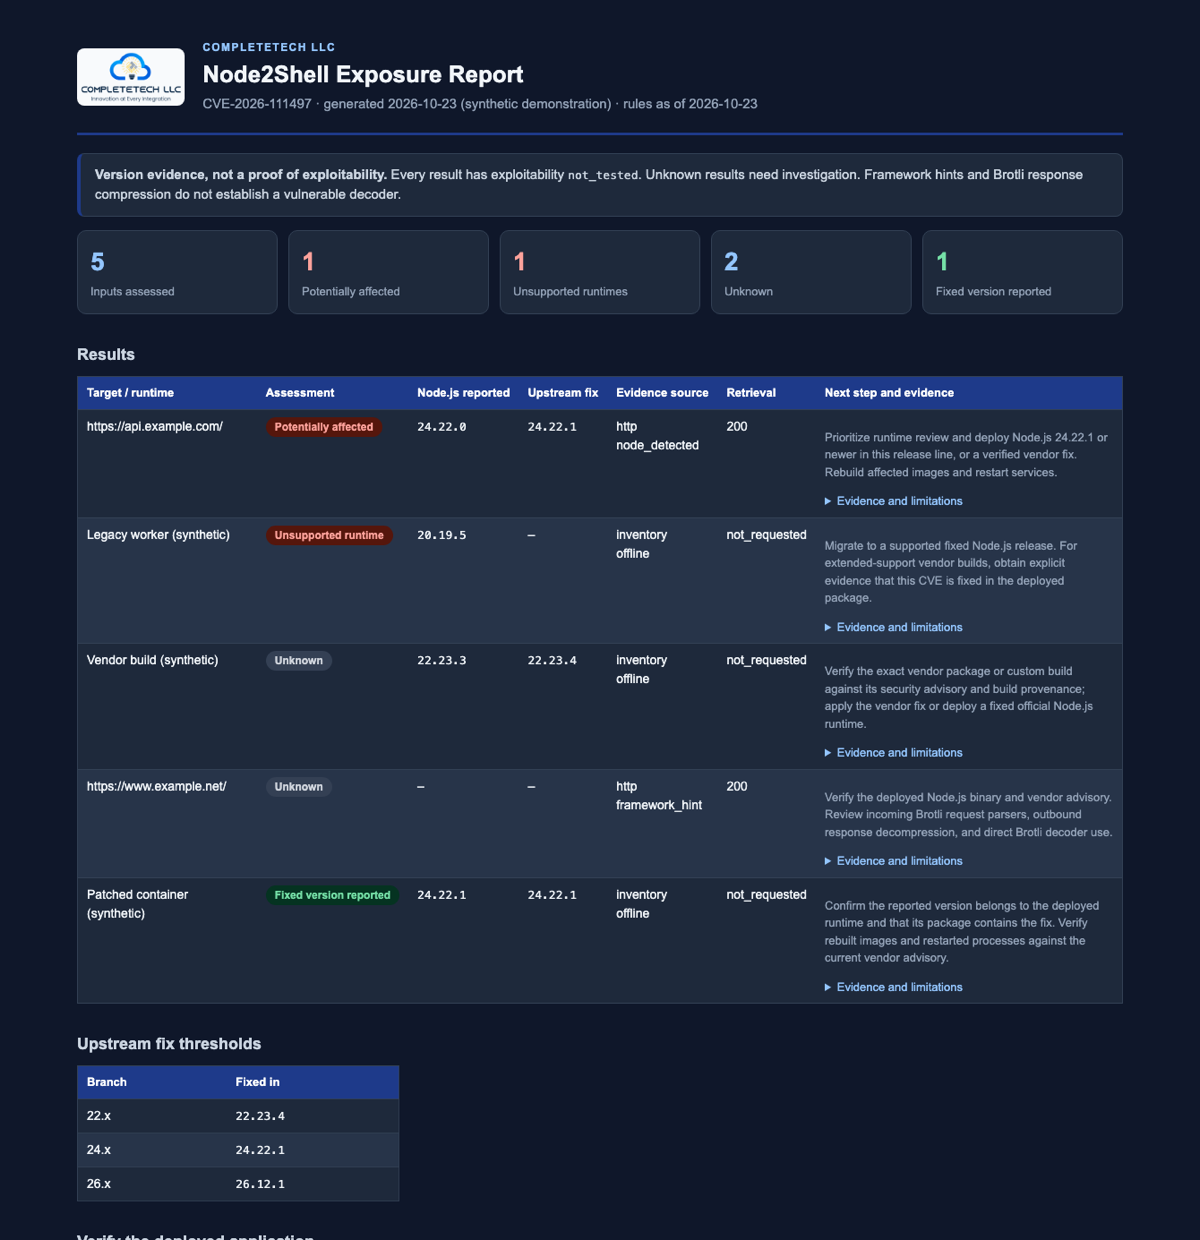
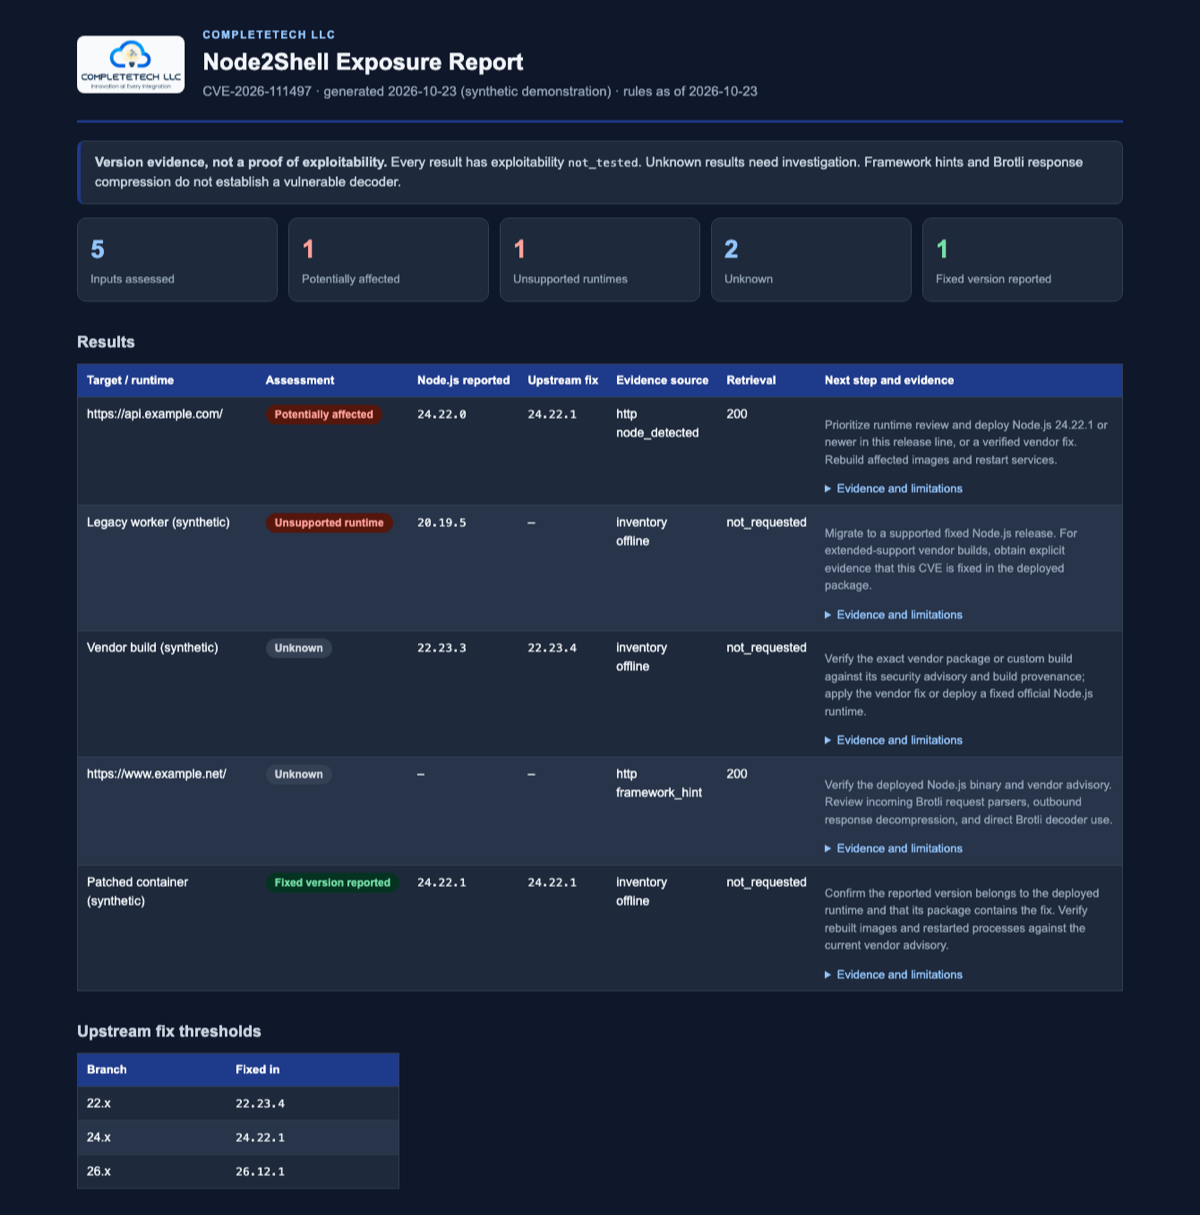
Align README license wording with LICENSING.md; tighten details
Address review: AGPL option is not limited to non-commercial use, name the
--fail-on-finding triggers, note robots gating and downgrade stop, widen the
unknown row, and crop screenshots below the fix table.

diff --git a/README.md b/README.md
@@ -30,11 +30,11 @@ python node2shell_check.py --inventory runtime.json --format html --output repor
 python node2shell_check.py --input websites.txt --format html --output websites-report.html
 ```
 
-Python 3.10+ on Windows, macOS, or Linux. Nothing to install. Node.js is needed only to run the optional collector.
+Python 3.10+ on Windows, macOS, or Linux. Nothing to install; use `python3` where `python` is not Python 3. Node.js is needed only to run the optional collector.
 
 ## The report
 
-`--format html` produces a single offline, script-free file with your logo, summary tiles, every result with its evidence and next step, and the upstream fix table. It follows the reader's light or dark theme and prints cleanly.
+`--format html` produces a single offline, script-free file with a logo, summary tiles, every result with its evidence and next step, and the upstream fix table. It follows the reader's light or dark theme and prints cleanly.
 
 <p align="center">
   <picture>
@@ -45,7 +45,7 @@ Python 3.10+ on Windows, macOS, or Linux. Nothing to install. Node.js is needed 
 
 <p align="center"><sub>Synthetic example built from reserved <code>example.*</code> domains and invented runtimes. <a href="docs/example-report.html">View the HTML</a>.</sub></p>
 
-Use `--logo path/to/logo.png` and `--brand "Your Company"` to brand it for your own organization. CSV and JSON remain available for spreadsheets and pipelines; `--fail-on-finding` exits 1 when a pipeline should stop.
+Use `--logo path/to/logo.png` and `--brand "Your Company"` to brand it for your own organization. CSV and JSON remain available for spreadsheets and pipelines. `--fail-on-finding` exits 1 when any result is `potentially_affected` or `unsupported_runtime`; operational errors exit 2.
 
 ## What the results mean
 
@@ -54,7 +54,7 @@ Use `--logo path/to/logo.png` and `--brand "Your Company"` to brand it for your 
 | 🔴 `potentially_affected` | A plain Node.js version below its branch's fix is reported. Verify the deployed build and prioritize remediation. |
 | 🟠 `unsupported_runtime` | The version is on an older, unsupported upstream line. Verify vendor support and move to a supported, patched runtime. |
 | 🟢 `fixed_version_reported` | The reported version meets the fix. Not independent verification of installed patches. |
-| ⚪ `unknown` | Version missing, conflicting, qualified, custom-built, pre-release, or outside this rule snapshot. |
+| ⚪ `unknown` | Version missing, malformed, conflicting, vendor-qualified, custom-built, pre-release, possibly backported, or outside this rule snapshot. |
 
 | Node.js branch | 22.x | 24.x | 26.x |
 | --- | --- | --- | --- |
@@ -69,7 +69,7 @@ Thresholds come from the [Node.js October 2026 security releases](https://nodejs
 
 - **Known version:** `--node-version` (repeatable) compares a version you obtained elsewhere. No network calls.
 - **Runtime inventory:** `collect-runtime.cjs` records version and build metadata from the Node.js binary that runs the service. It never loads application code, reads environment variables, decompresses data, or opens a connection, and it cannot attest vendor patch provenance.
-- **Website metadata:** reads `robots.txt`, then makes ordinary `GET` requests with verified TLS, an honest User-Agent, bounded responses, and pacing. Redirects stay on the same host or its `www` counterpart. It fetches nothing else and sends no compressed bodies, credentials, or crafted requests.
+- **Website metadata:** reads `robots.txt`, then makes an ordinary `GET` request to the page if allowed, with verified TLS, an honest User-Agent, bounded responses, and pacing. Redirects stay on the same host or its `www` counterpart, and HTTPS downgrades stop. It fetches nothing else and sends no compressed bodies, credentials, or crafted requests.
 
 Input modes can be combined in one report; each observation keeps its own evidence. Express or Next.js hints never become Node.js version evidence, and Brotli response compression does not prove request decoding.
 
@@ -89,7 +89,7 @@ For agents contributing to this repository, [AGENTS.md](AGENTS.md) contains the 
 
 ## License
 
-Dual licensed. It's free under [AGPL-3.0](LICENSE) for research, education, and open-source use. A commercial license is available for closed-source products and hosted services that don't publish their source; see [LICENSING.md](LICENSING.md) for details. The CompleteTech LLC name and logo are covered by neither license; see [BRAND_ASSETS.md](BRAND_ASSETS.md).
+Dual licensed: [AGPL-3.0](LICENSE), including commercial use that meets its terms, or a [commercial license](LICENSING.md#commercial-license) from CompleteTech LLC for closed-source products and services that don't fit the AGPL model. See [LICENSING.md](LICENSING.md) for details. The CompleteTech LLC name and logo are covered by neither license; see [BRAND_ASSETS.md](BRAND_ASSETS.md).
 
 <p align="center">
   <a href="https://complete.tech"><img src="assets/logo.png" alt="CompleteTech LLC" width="160"></a><br>

diff --git a/BRAND_ASSETS.md b/BRAND_ASSETS.md
@@ -1,8 +1,8 @@
 # Brand assets
 
 CompleteTech LLC names, logos, and brand assets included in this repository,
-including `assets/logo.png` and the images in `docs/images/`, are not licensed under the AGPL-3.0 or a commercial
-code license.
+including `assets/logo.png` and the images in `docs/images/`, are not licensed
+under the AGPL-3.0 or a commercial code license.
 
 They remain trademarks, service marks, or brand assets of CompleteTech LLC and
 may not be reused in a way that suggests endorsement, affiliation, sponsorship,
